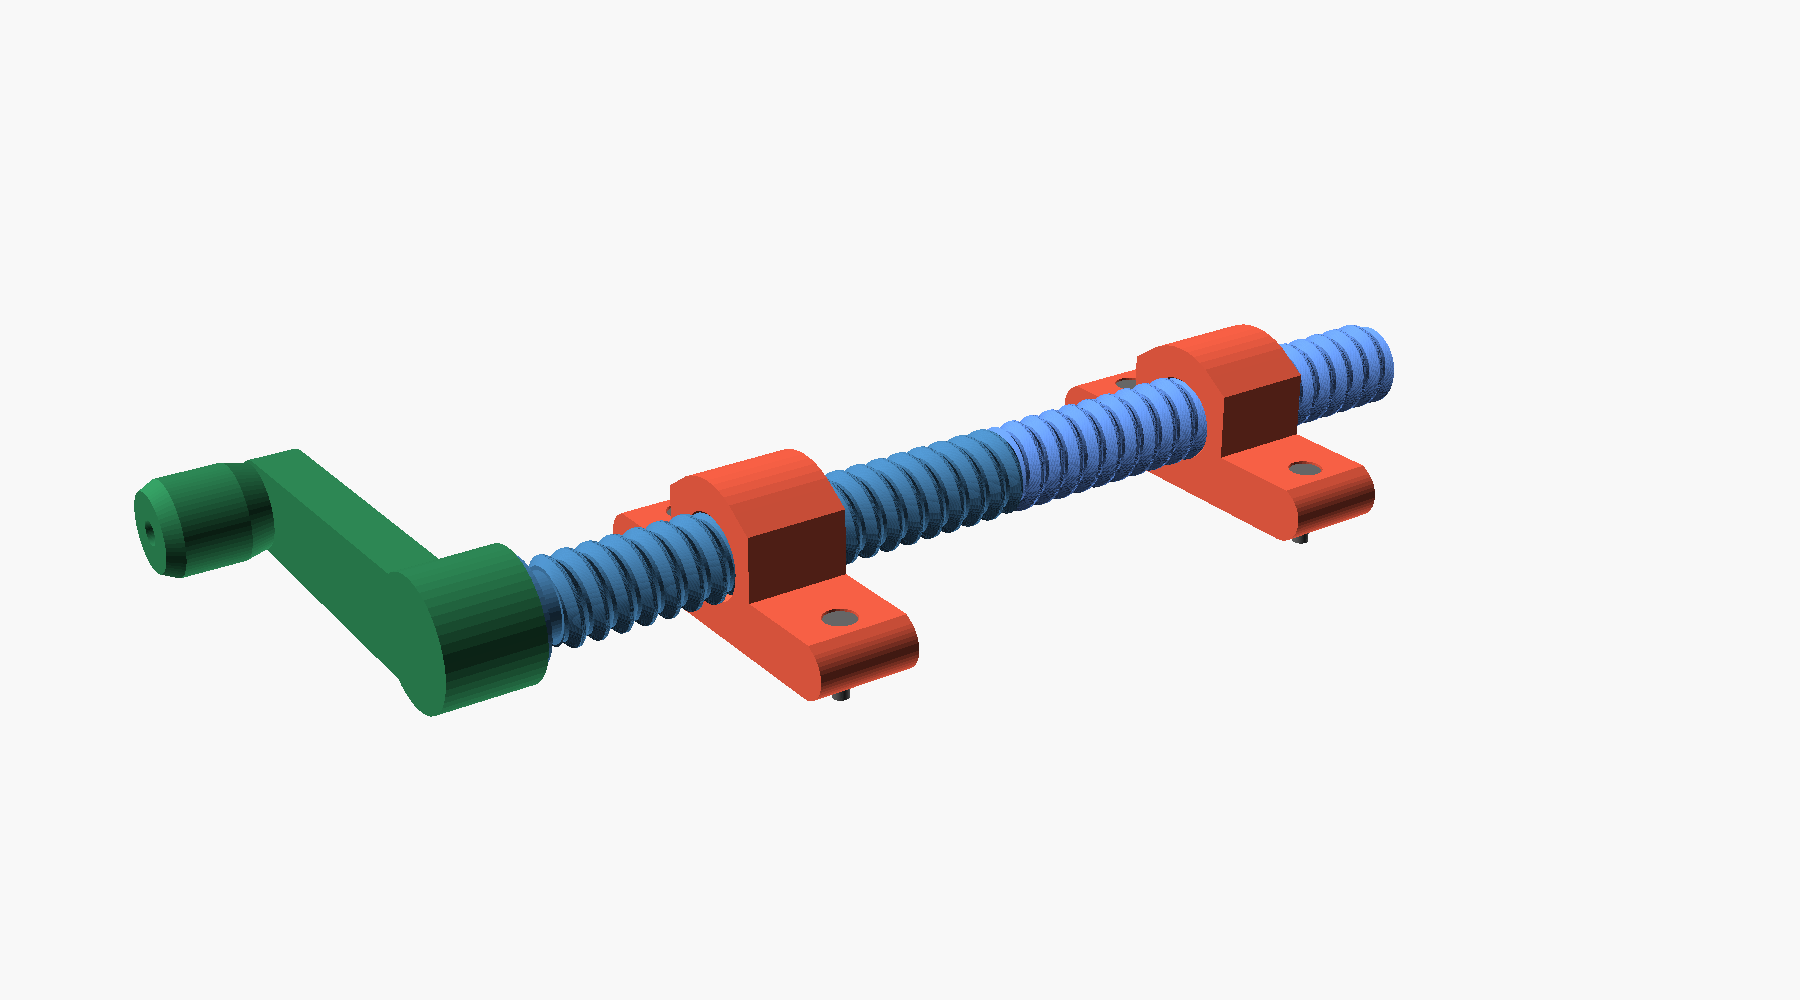
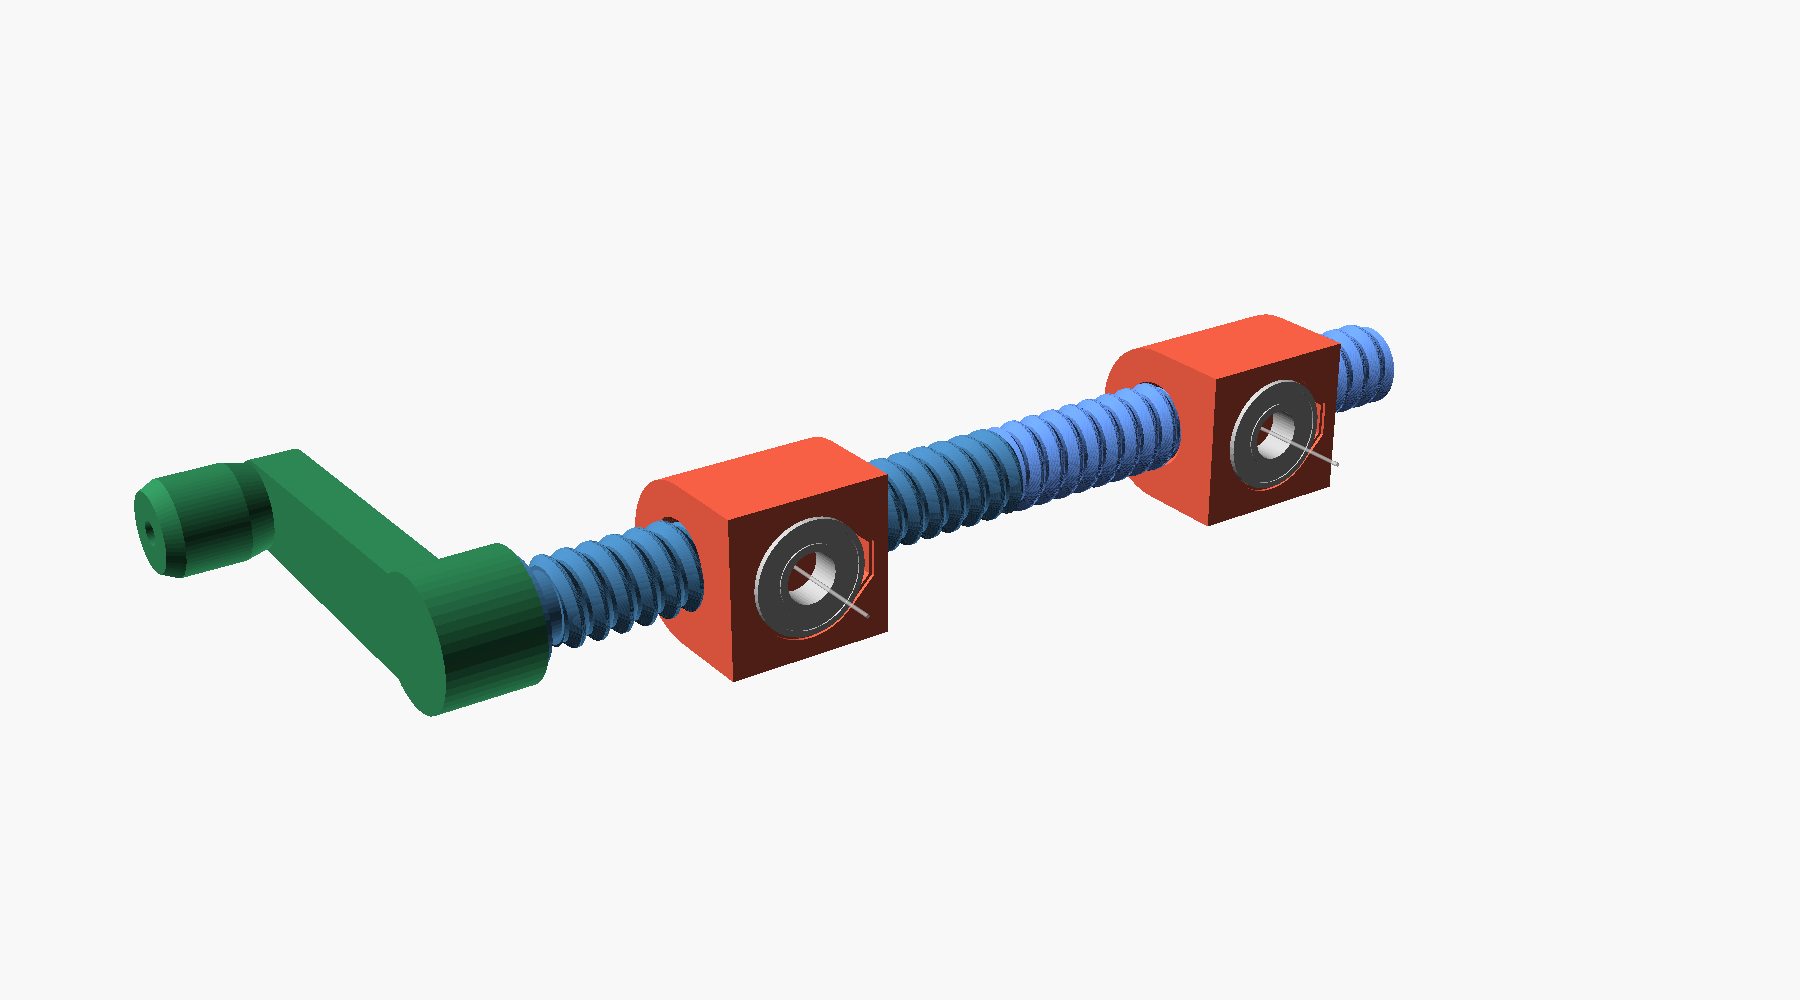
Spreader: carriages house a 1-1/8" x 1/2" x 5/16" bearing on the rod center line
Claude-Session: https://claude.ai/code/session_01PSLzuMDMbJ1D8zieyQqa7G

Changed region(s): [[0.3422, 0.434, 0.5289, 0.713], [0.5911, 0.31, 0.7778, 0.558]]

diff --git a/screw_spreader/README.md b/screw_spreader/README.md
@@ -7,6 +7,9 @@ from each other. Everything fits a Prusa Core One (250 x 220 x 270 mm).
 ![assembly](assembly_drive_side.png)
 ![assembly](assembly.png)
 ![carriage](carriage.png)
+![section](section.png)
+
+The cutaway (`section_view.scad`) shows the bearing axis (red) crossing the rod axis (black).
 
 ## Specs
 | | |
@@ -14,8 +17,8 @@ from each other. Everything fits a Prusa Core One (250 x 220 x 270 mm).
 | Rod length | 272 mm (10.7") overall, 250 mm threaded |
 | Thread | 22 mm major dia, 6 mm pitch, 90° included angle (prints without support) |
 | Travel | 6 mm per turn per carriage (12 mm/turn closing or opening) |
-| Carriage centers | 26 mm (touching) to about 225 mm apart |
-| Carriage mounting | 2 counterbored M4 / #8 holes per carriage, 68 mm apart, screws perpendicular to the rod through a flat mounting face |
+| Carriage centers | 42 mm (touching) to about 208 mm apart |
+| Bearing | 1-1/8" OD x 1/2" ID x 5/16" wide (R8), press fit, axis perpendicular to the rod and through its center line |
 | Drive | 3/8" square: fits the printed crank or any 3/8" ratchet or T-handle |
 
 ## Parts
@@ -25,22 +28,27 @@ Export with `openscad -o part.stl -D 'PART="rod_rh"' screw_spreader.scad`.
 |---|---|---|
 | `rod_rh` (drive half, RH thread, hex socket) | 1 | standing up, square drive on top, brim |
 | `rod_lh` (far half, LH thread, hex peg) | 1 | standing up, peg on top, brim |
-| `carriage_rh` | 1 | as exported (thread axis vertical), no supports |
+| `carriage_rh` | 1 | as exported (thread axis vertical), no supports; the pocket has a teardrop top |
 | `carriage_lh` | 1 | as exported |
 | `crank` | 1 | flat |
 | `knob` | 1 | upright |
 
-Bought parts: 4x M4 or #8 screws (head 8 mm dia or less), 1x M5x40 bolt and
-nylock nut, epoxy for the center hex joint.
+Bought parts: 2x ball bearings 1-1/8" OD x 1/2" ID x 5/16" wide (R8 / R8-2RS),
+1x M5x40 bolt and nylock nut, epoxy for the center hex joint. The 1/2" pins
+that connect the bearings to your side members are not included.
 
 ## Assembly
 1. Epoxy the hex peg of `rod_lh` into the socket of `rod_rh`. The glue is what
    holds the two halves together lengthwise.
 2. Thread `carriage_rh` onto the RH half and `carriage_lh` onto the LH half,
-   the same distance from center, mounting faces on the same side.
-3. Screw the carriages to the parts you want to spread or clamp. Those parts
-   keep the carriages from spinning with the rod.
-4. Put the crank on the square drive.
+   the same distance from center, bearing pockets on the same side.
+3. Press a bearing into each carriage pocket. The
+   bearing stands 0.5 mm proud of the face so the side member clears the
+   carriage. A 1.2 mm relief behind the inner race keeps it from rubbing.
+4. Pin each bearing to its side member. The pin must not go deeper than the
+   bearing: there are only 3.5 mm of plastic between the pocket floor and the
+   thread. The pinned side members stop the carriages from spinning.
+5. Put the crank on the square drive.
 
 Tune `CLR` (nut clearance, default 0.35 mm radial) if the carriages are too
-tight or too loose on your printer.
+tight or too loose on the rod, and `B_FIT` (default 0.15 mm) for the bearing press fit.
